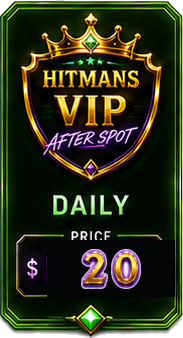
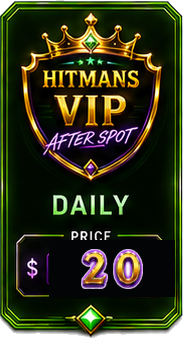
Use the real PASS card for the pass; professional prices; mobile-clean
- Member pass now uses the dedicated PASS cards (source_04_013-017 'MONTHLY
  PASS' etc.), not the pricing tier card. Buy screen keeps the price cards.
- Prices composed professionally: keep the card's own purple '$', place the
  gold digit glyphs (source_16) after it with consistent height + even spacing
  (no double '$', nothing cramped). tools/compose_tier_cards.py.
- Verified on a 390px phone viewport: no horizontal overflow on buy / pass /
  verify; 2-col tappable tier grid; single-column pass; big readable controls.

Claude-Session: https://claude.ai/code/session_01ADwVEMnuAZygKPZ7Pb8UgW

Changed region(s): [[0.6011, 0.7396, 0.7923, 0.858], [0.2459, 0.7396, 0.2732, 0.858]]

diff --git a/hitmans_vip_membership_app/src/main.jsx b/hitmans_vip_membership_app/src/main.jsx
@@ -927,8 +927,10 @@ function PayVerifyScreen() {
   );
 }
 
-// Tier name -> its card artwork.
+// Tier name -> pricing-card artwork (buy screen, has the $ price slot).
 const TIER_SRC = Object.fromEntries(ui.tiers.map((t) => [t.name, t.src]));
+// Tier name -> member PASS-card artwork (the pass; "MONTHLY PASS", no price).
+const PASS_SRC = Object.fromEntries(ui.passes.map((p) => [p.name, p.src]));
 // Door-result status -> its alert chip graphic.
 const STATUS_CHIP = { valid: ui.verify.valid, expired: ui.verify.expired, trespass: ui.verify.trespass };
 
@@ -1004,7 +1006,7 @@ function MemberPass({ member }) {
   return (
     <div className="mem-screen mem-pass">
       <div className="mem-pass-card" style={{ '--tier-accent': isVip ? '#ffd66b' : '#b06bff' }}>
-        <img className="mem-pass-art" src={TIER_SRC[member.tier]} alt={`${member.tier} membership`} />
+        <img className="mem-pass-art" src={PASS_SRC[member.tier]} alt={`${member.tier} pass`} />
         <div className="mem-pass-info">
           <span className="mem-pass-eyebrow">HITMANS VIP · Member</span>
           <strong className="mem-pass-tier">{member.tier}{isVip ? ' VIP' : ''}</strong>

diff --git a/tools/compose_tier_cards.py b/tools/compose_tier_cards.py
@@ -1,69 +1,85 @@
 #!/usr/bin/env python3
-"""Compose the real membership price onto each full tier card using the
-gold digit-glyph assets (source_16). Masks the baked '88.88', keeps the card's
-'$', drops in the real whole-dollar price. Outputs full cards to the app.
+"""Compose a clean, professional price onto each full tier card using the gold
+digit-glyph assets (source_16) plus a matching gold '$'. Masks the baked
+'88.88' odometer, then lays out '$' + real whole-dollar price with consistent
+height and even spacing, vertically centered in the slot.
 """
 import os, numpy as np
-from PIL import Image
+from PIL import Image, ImageDraw, ImageFont, ImageFilter
 
 ROOT = '/home/user/HVAS'
 SRC = f'{ROOT}/assets/ui/complete_ui_set/sliced_clean/by_type/cards'
 DST = f'{ROOT}/hitmans_vip_membership_app/public/assets/ui/complete_ui_set/sliced_clean/by_type/cards'
+FONT = '/usr/share/fonts/truetype/dejavu/DejaVuSans-Bold.ttf'
 
-# digit char -> source_16 glyph file
 GLYPH = {'0':'source_16_001_198x257','1':'source_16_002_131x262','2':'source_16_003_181x259',
          '3':'source_16_004_184x258','4':'source_16_005_210x257','5':'source_16_006_185x258',
          '6':'source_16_010_195x257','7':'source_16_007_189x256','8':'source_16_008_194x261',
          '9':'source_16_009_192x258'}
-_glyph_cache = {}
-def glyph(ch):
-    if ch not in _glyph_cache:
-        im = Image.open(f'{SRC}/{GLYPH[ch]}.png').convert('RGBA')
-        a = np.array(im); ys, xs = np.where(a[:, :, 3] > 40)
-        _glyph_cache[ch] = im.crop((xs.min(), ys.min(), xs.max()+1, ys.max()+1))
-    return _glyph_cache[ch]
 
-# tier card -> price. Slot digit region (inside the $ ... boxes) is consistent.
+def _tight(im):
+    a = np.array(im); ys, xs = np.where(a[:, :, 3] > 30)
+    return im.crop((xs.min(), ys.min(), xs.max()+1, ys.max()+1))
+
+_cache = {}
+def glyph(ch):
+    if ch not in _cache:
+        _cache[ch] = _tight(Image.open(f'{SRC}/{GLYPH[ch]}.png').convert('RGBA'))
+    return _cache[ch]
+
+def dollar():
+    """A gold '$' with a purple neon glow to match the digit glyphs."""
+    if '$' in _cache:
+        return _cache['$']
+    h = 240
+    font = ImageFont.truetype(FONT, h)
+    W, H = h, int(h * 1.5)
+    core = Image.new('RGBA', (W, H), (0, 0, 0, 0))
+    ImageDraw.Draw(core).text((W//2, H//2), '$', font=font, anchor='mm',
+                              fill=(255, 206, 74, 255), stroke_width=max(4, h//22), stroke_fill=(74, 26, 104, 255))
+    glow = Image.new('RGBA', (W, H), (0, 0, 0, 0))
+    ImageDraw.Draw(glow).text((W//2, H//2), '$', font=font, anchor='mm',
+                              fill=(178, 96, 255, 255), stroke_width=max(8, h//10), stroke_fill=(178, 96, 255, 255))
+    glow = glow.filter(ImageFilter.GaussianBlur(h//16))
+    _cache['$'] = _tight(Image.alpha_composite(glow, core))
+    return _cache['$']
+
 CARDS = {
     'source_01_025_183x338': 20, 'source_01_026_183x338': 100, 'source_01_027_181x337': 300,
     'source_01_028_181x337': 1850, 'source_01_029_179x337': 5000,
 }
-# mask the WHOLE slot interior (all boxes + baked $88.88 + glow), then place the
-# real price centered and large. RX = compose region, MX = mask region.
-RX0, RX1, RY0, RY1 = 54, 168, 247, 291
-MX0, MY0, MX1, MY1 = 47, 240, 174, 296
+# keep the card's own baked purple '$' (x~28-46); mask + fill only the digit
+# boxes to its right, then lay the real digits just after the '$'.
+MX0, MY0, MX1, MY1 = 49, 240, 174, 296
+RX0, RX1, RY0, RY1 = 55, 170, 246, 292
+GAP = 5
+MAXH = 40
 
-def slot_bg(arr, x0, x1, y0, y1):
-    reg = arr[y0:y1, x0:x1, :3].reshape(-1, 3)
-    bright = reg.sum(axis=1)
-    dark = reg[bright < np.percentile(bright, 40)]
-    return tuple(int(v) for v in np.median(dark, axis=0)) if len(dark) else (10, 6, 18)
+def slot_bg(arr):
+    reg = arr[MY0:MY1, MX0:MX1, :3].reshape(-1, 3)
+    b = reg.sum(axis=1); dark = reg[b < np.percentile(b, 40)]
+    return tuple(int(v) for v in np.median(dark, axis=0)) if len(dark) else (8, 4, 16)
 
 for name, price in CARDS.items():
     card = Image.open(f'{SRC}/{name}.png').convert('RGBA')
-    arr = np.array(card)
-    bg = slot_bg(arr, MX0, MX1, MY0, MY1)
-    # mask the baked digits + their glow halo
+    bg = slot_bg(np.array(card))
     d = Image.new('RGBA', card.size, (0, 0, 0, 0))
-    from PIL import ImageDraw
     ImageDraw.Draw(d).rectangle([MX0, MY0, MX1, MY1], fill=bg + (255,))
     card.alpha_composite(d)
-    # compose real digits
-    s = str(price)
-    crops = [glyph(c) for c in s]
-    gap = 3; region_w = RX1 - RX0; region_h = RY1 - RY0
-    th = region_h - 4
-    def total_w(h):
-        return sum(int(c.width * (h / c.height)) for c in crops) + gap * (len(crops) - 1)
-    if total_w(th) > region_w:
-        th = int(th * region_w / total_w(th))
-    widths = [int(c.width * (th / c.height)) for c in crops]
-    tw = sum(widths) + gap * (len(crops) - 1)
-    x = RX0 + (region_w - tw) // 2
-    y = RY0 + (region_h - th) // 2
-    for c, w in zip(crops, widths):
-        g = c.resize((max(1, w), th))
-        card.alpha_composite(g, (x, y))
-        x += w + gap
+
+    region_w, region_h = RX1 - RX0, RY1 - RY0
+    digits = [glyph(c) for c in str(price)]
+    def total_w(hh):
+        return sum(int(g.width * (hh / g.height)) for g in digits) + GAP * (len(digits) - 1)
+    h = min(MAXH, region_h - 4)
+    if total_w(h) > region_w:
+        h = int(h * region_w / total_w(h))
+    items = [g.resize((max(1, int(g.width * h / g.height)), h)) for g in digits]
+    tw = sum(im.width for im in items) + GAP * (len(items) - 1)
+    x = RX0 + max(0, (region_w - tw) // 2)   # centered in the digit region
+    baseline = RY0 + (region_h + h) // 2
+    for im in items:
+        card.alpha_composite(im, (x, baseline - im.height))
+        x += im.width + GAP
     card.save(f'{DST}/{name}.png')
-    print(f'{name}: ${price}  bg={bg}')
+    print(f'{name}: ${price}  h={h}')
